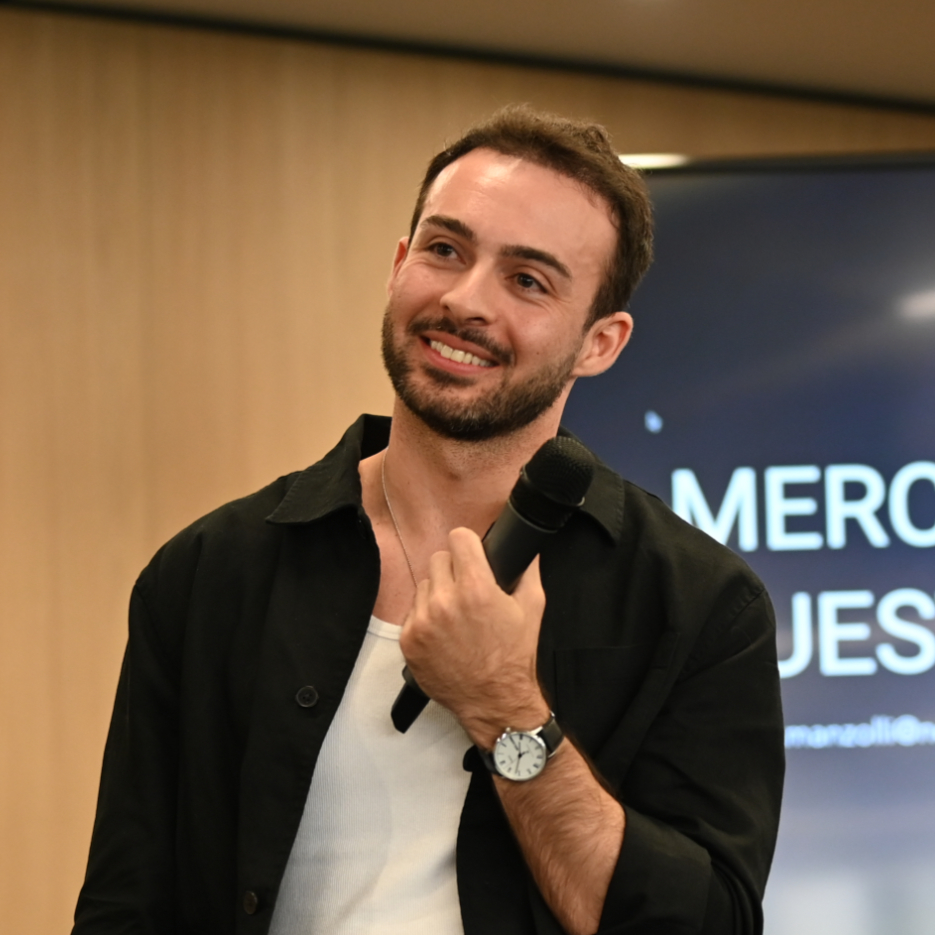
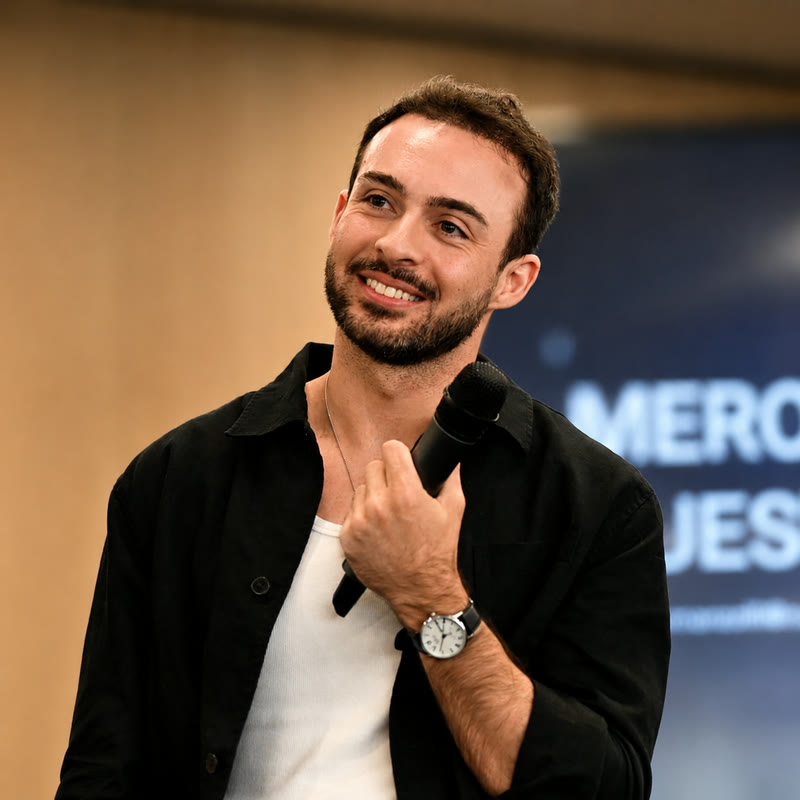
Update team headshots: Luis, Jonatas, Sarah
New portraits resized to 800px JPEG; team-luis.png replaced by
team-luis.jpg and references updated in both languages.

diff --git a/about.html b/about.html
@@ -75,7 +75,7 @@
           <a class="li-link" href="https://www.linkedin.com/in/jmanzolli/" target="_blank" rel="noopener">LinkedIn &#8599;</a>
         </div>
         <div class="member">
-          <img src="assets/img/team-luis.png" alt="Luis Miranda-Moreno" loading="lazy" decoding="async" width="600" height="600">
+          <img src="assets/img/team-luis.jpg" alt="Luis Miranda-Moreno" loading="lazy" decoding="async" width="600" height="600">
           <p class="role">Co-founder &amp; Scientific Advisor</p>
           <h3>Luis Miranda-Moreno</h3>
           <p>Luis Miranda-Moreno is a Professor at McGill University with more than 15 years of experience in sustainable mobility and emerging transportation technologies.</p>

diff --git a/fr/about.html b/fr/about.html
@@ -75,7 +75,7 @@
           <a class="li-link" href="https://www.linkedin.com/in/jmanzolli/" target="_blank" rel="noopener">LinkedIn &#8599;</a>
         </div>
         <div class="member">
-          <img src="../assets/img/team-luis.png" alt="Luis Miranda-Moreno" loading="lazy" decoding="async" width="600" height="600">
+          <img src="../assets/img/team-luis.jpg" alt="Luis Miranda-Moreno" loading="lazy" decoding="async" width="600" height="600">
           <p class="role">Cofondateur et conseiller scientifique</p>
           <h3>Luis Miranda-Moreno</h3>
           <p>Luis Miranda-Moreno est professeur à l'Université McGill, avec plus de 15 ans d'expérience en mobilité durable et en technologies de transport émergentes.</p>